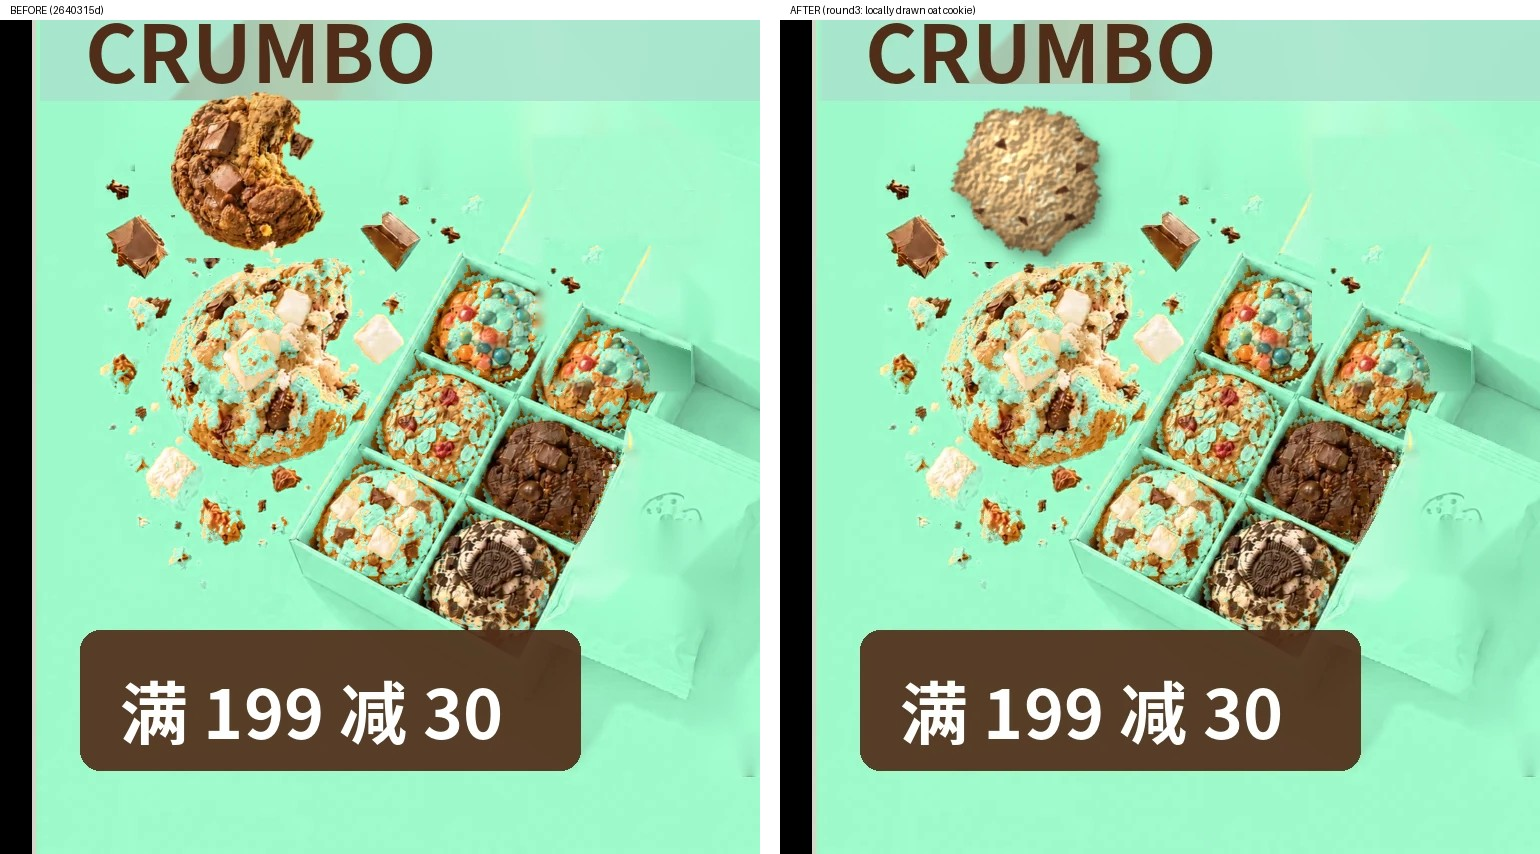
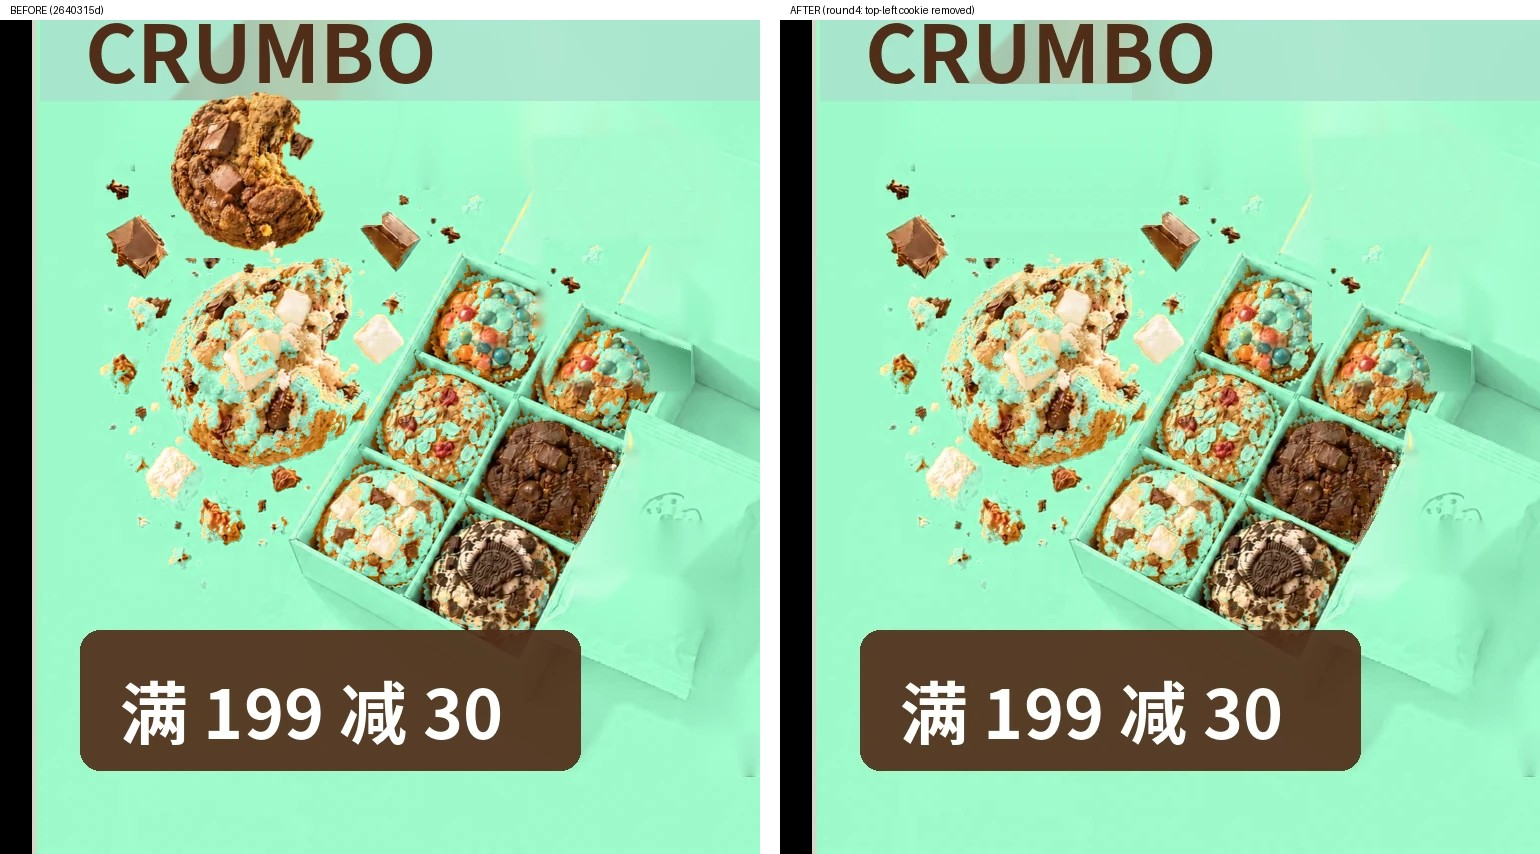
673 promo ex01 poster6 round4: remove top-left cookie (mint+grain fill), keep chunks/crumbs, M&M + packet fixes; webp q90
交接: tip=this; p6_fix2.py runs on promo-ex01.webp @2640315d. Cookie removed per design HOLD on b0b7605e; rows<1444 meanAbs within 2 vs 2640315d; OCR no banned text; L/R rebuilt. Next: design+QA re-check; redone images go in own small PR after unhide (not opened). Spend $0.

Changed region(s): [[0.6234, 0.1218, 0.7169, 0.3044], [0.561, 0.0, 0.6234, 0.0304]]

diff --git a/docs/design/673/next/p6_fix2.py b/docs/design/673/next/p6_fix2.py
@@ -1,3 +1,4 @@
+# poster6 round 4: top-left cookie removed entirely (mint + grain fill); M&M edge + packet spot fixes kept.
 # poster6 round 3 (design HOLD on e33e60a6): top-left cookie DRAWN LOCALLY (procedural oat cookie, step 2) - no gold pixels, not from promo-ex01; no light cookie exists in our other washed images (643/wash, 673/batch, 687/next checked).
 # (round1 note, superseded by step 2 below) Cookie source was: the chocolate cookie in the box of docs/design/673/next/promo-ex01.webp
 #   (tip 2640315d, ellipse centre (2270,1836) r 55x47) -- no gold pixels. Rotated 35deg, scaled 1.45x, dome-shaded:
@@ -7,37 +8,38 @@ import numpy as np,cv2;from PIL import Image
 P='promo-ex01.webp';a=np.array(Image.open(P).convert('RGB')).astype(np.float32);H,W=a.shape[:2];rng=np.random.default_rng(11)
 src=a.copy()
 # 1) erase old cookie -> per-row mint from clean band
-y0,y1,x0,x1=1444,1622,1868,2070
+y0,y1,x0,x1=1444,1614,1868,2072
 mint=np.median(a[y0:y1,2125:2200],1);reg=np.zeros((H,W),bool);reg[y0:y1,x0:x1]=1;reg[1575:,:1895]=0
 for y in range(y0,y1):
     m=reg[y];a[y,m]=mint[y-y0]+rng.normal(0,1.2,(m.sum(),3))
-# 2) cookie DRAWN LOCALLY (procedural oat cookie; no gold pixels, no promo-ex01 pixels):
-#    irregular crumbly outline (radial noise), oat base + flake/raisin texture, dome shading, drop shadow down-right
-n=200;yy,xx=np.mgrid[0:n,0:n].astype(np.float32);c0=n/2;th=np.arctan2(yy-c0,xx-c0);rr=np.hypot(xx-c0,yy-c0)
-rad=74+sum(rng.uniform(1.0,3.2)*np.sin(k*th+rng.uniform(0,6.3)) for k in (2,3,5,7,11))
-rad+=cv2.resize(rng.normal(0,1.4,(1,90)).astype(np.float32),(n,n))[0][((th+np.pi)/(2*np.pi)*(n-1)).astype(int)]
-inside=(rr<rad).astype(np.float32)
-crumb=(rng.random((n,n))<0.35)&(rr>rad-3)&(rr<rad);inside[crumb]=0
-inside=cv2.morphologyEx(inside,cv2.MORPH_OPEN,np.ones((2,2)))
-base=np.array([214,176,122],np.float32)
-nz=cv2.GaussianBlur(rng.normal(0,1,(n,n)).astype(np.float32),(0,0),2.5)*14+cv2.GaussianBlur(rng.normal(0,1,(n,n)).astype(np.float32),(0,0),0.8)*9
-tex=base+nz[...,None]*np.array([1,0.9,0.7])
-for _ in range(38):  # pale oat flakes
-    x,y=rng.integers(30,170,2);cv2.ellipse(tex,(int(x),int(y)),(int(rng.integers(4,9)),int(rng.integers(2,4))),float(rng.uniform(0,180)),0,360,(236,214,170),-1)
-for _ in range(9):   # dark raisins/chips, irregular
-    x,y=rng.integers(40,160,2);pts=np.array([(x+rng.integers(-7,8),y+rng.integers(-6,7)) for _ in range(6)],np.int32);cv2.fillConvexPoly(tex,cv2.convexHull(pts),(92,52,34))
-tex=cv2.GaussianBlur(tex,(0,0),0.7)
-hgt=cv2.GaussianBlur(rng.normal(0,1,(n,n)).astype(np.float32),(0,0),4)*30+cv2.GaussianBlur(rng.normal(0,1,(n,n)).astype(np.float32),(0,0),1.5)*8
-gx=cv2.Sobel(hgt,cv2.CV_32F,1,0);gy=cv2.Sobel(hgt,cv2.CV_32F,0,1);tex*=np.clip(1-0.025*(gx+gy),0.75,1.25)[...,None]
-rimd=np.clip((rr-(rad-16))/16,0,1)[...,None];tex=tex*(1-0.45*rimd)+np.array([168,112,62],np.float32)*0.45*rimd
-d=np.hypot((xx-c0+18)/80,(yy-c0+20)/80);tex*=np.clip(1.18-0.42*d,0.62,1.2)[...,None]
-edge=cv2.GaussianBlur(inside,(0,0),3);tex*=(0.8+0.2*edge)[...,None]
-m=cv2.GaussianBlur(inside,(0,0),0.7)[...,None]
-sh=cv2.GaussianBlur(np.roll(np.roll(inside,9,0),7,1),(0,0),7)[...,None]*0.32
-s=0.98;n2=int(n*s);tex=cv2.resize(tex,(n2,n2));m=cv2.resize(m,(n2,n2))[...,None];sh=cv2.resize(sh,(n2,n2))[...,None]
-tx,ty=1968-n2//2,1536-n2//2;R=a[ty:ty+n2,tx:tx+n2]
-R=R*(1-sh);R=tex*m+R*(1-m);a[ty:ty+n2,tx:tx+n2]=R
-ys,xs=np.nonzero(m[...,0]>0.5);print('cookie box',tx+xs.min(),ty+ys.min(),tx+xs.max(),ty+ys.max())
+if False:  # round4: design HOLD on b0b7605e -> cookie REMOVED; area left as mint fill from step 1
+    # 2) cookie DRAWN LOCALLY (procedural oat cookie; no gold pixels, no promo-ex01 pixels):
+    #    irregular crumbly outline (radial noise), oat base + flake/raisin texture, dome shading, drop shadow down-right
+    n=200;yy,xx=np.mgrid[0:n,0:n].astype(np.float32);c0=n/2;th=np.arctan2(yy-c0,xx-c0);rr=np.hypot(xx-c0,yy-c0)
+    rad=74+sum(rng.uniform(1.0,3.2)*np.sin(k*th+rng.uniform(0,6.3)) for k in (2,3,5,7,11))
+    rad+=cv2.resize(rng.normal(0,1.4,(1,90)).astype(np.float32),(n,n))[0][((th+np.pi)/(2*np.pi)*(n-1)).astype(int)]
+    inside=(rr<rad).astype(np.float32)
+    crumb=(rng.random((n,n))<0.35)&(rr>rad-3)&(rr<rad);inside[crumb]=0
+    inside=cv2.morphologyEx(inside,cv2.MORPH_OPEN,np.ones((2,2)))
+    base=np.array([214,176,122],np.float32)
+    nz=cv2.GaussianBlur(rng.normal(0,1,(n,n)).astype(np.float32),(0,0),2.5)*14+cv2.GaussianBlur(rng.normal(0,1,(n,n)).astype(np.float32),(0,0),0.8)*9
+    tex=base+nz[...,None]*np.array([1,0.9,0.7])
+    for _ in range(38):  # pale oat flakes
+        x,y=rng.integers(30,170,2);cv2.ellipse(tex,(int(x),int(y)),(int(rng.integers(4,9)),int(rng.integers(2,4))),float(rng.uniform(0,180)),0,360,(236,214,170),-1)
+    for _ in range(9):   # dark raisins/chips, irregular
+        x,y=rng.integers(40,160,2);pts=np.array([(x+rng.integers(-7,8),y+rng.integers(-6,7)) for _ in range(6)],np.int32);cv2.fillConvexPoly(tex,cv2.convexHull(pts),(92,52,34))
+    tex=cv2.GaussianBlur(tex,(0,0),0.7)
+    hgt=cv2.GaussianBlur(rng.normal(0,1,(n,n)).astype(np.float32),(0,0),4)*30+cv2.GaussianBlur(rng.normal(0,1,(n,n)).astype(np.float32),(0,0),1.5)*8
+    gx=cv2.Sobel(hgt,cv2.CV_32F,1,0);gy=cv2.Sobel(hgt,cv2.CV_32F,0,1);tex*=np.clip(1-0.025*(gx+gy),0.75,1.25)[...,None]
+    rimd=np.clip((rr-(rad-16))/16,0,1)[...,None];tex=tex*(1-0.45*rimd)+np.array([168,112,62],np.float32)*0.45*rimd
+    d=np.hypot((xx-c0+18)/80,(yy-c0+20)/80);tex*=np.clip(1.18-0.42*d,0.62,1.2)[...,None]
+    edge=cv2.GaussianBlur(inside,(0,0),3);tex*=(0.8+0.2*edge)[...,None]
+    m=cv2.GaussianBlur(inside,(0,0),0.7)[...,None]
+    sh=cv2.GaussianBlur(np.roll(np.roll(inside,9,0),7,1),(0,0),7)[...,None]*0.32
+    s=0.98;n2=int(n*s);tex=cv2.resize(tex,(n2,n2));m=cv2.resize(m,(n2,n2))[...,None];sh=cv2.resize(sh,(n2,n2))[...,None]
+    tx,ty=1968-n2//2,1536-n2//2;R=a[ty:ty+n2,tx:tx+n2]
+    R=R*(1-sh);R=tex*m+R*(1-m);a[ty:ty+n2,tx:tx+n2]=R
+    ys,xs=np.nonzero(m[...,0]>0.5);print('cookie box',tx+xs.min(),ty+ys.min(),tx+xs.max(),ty+ys.max())
 # 3) M&M right edge unsharp
 # soft orange blob on M&M right edge: refill with divider-wall colour (row median of x2270-2280), crisp edge at x2252
 for y in range(1645,1703):
